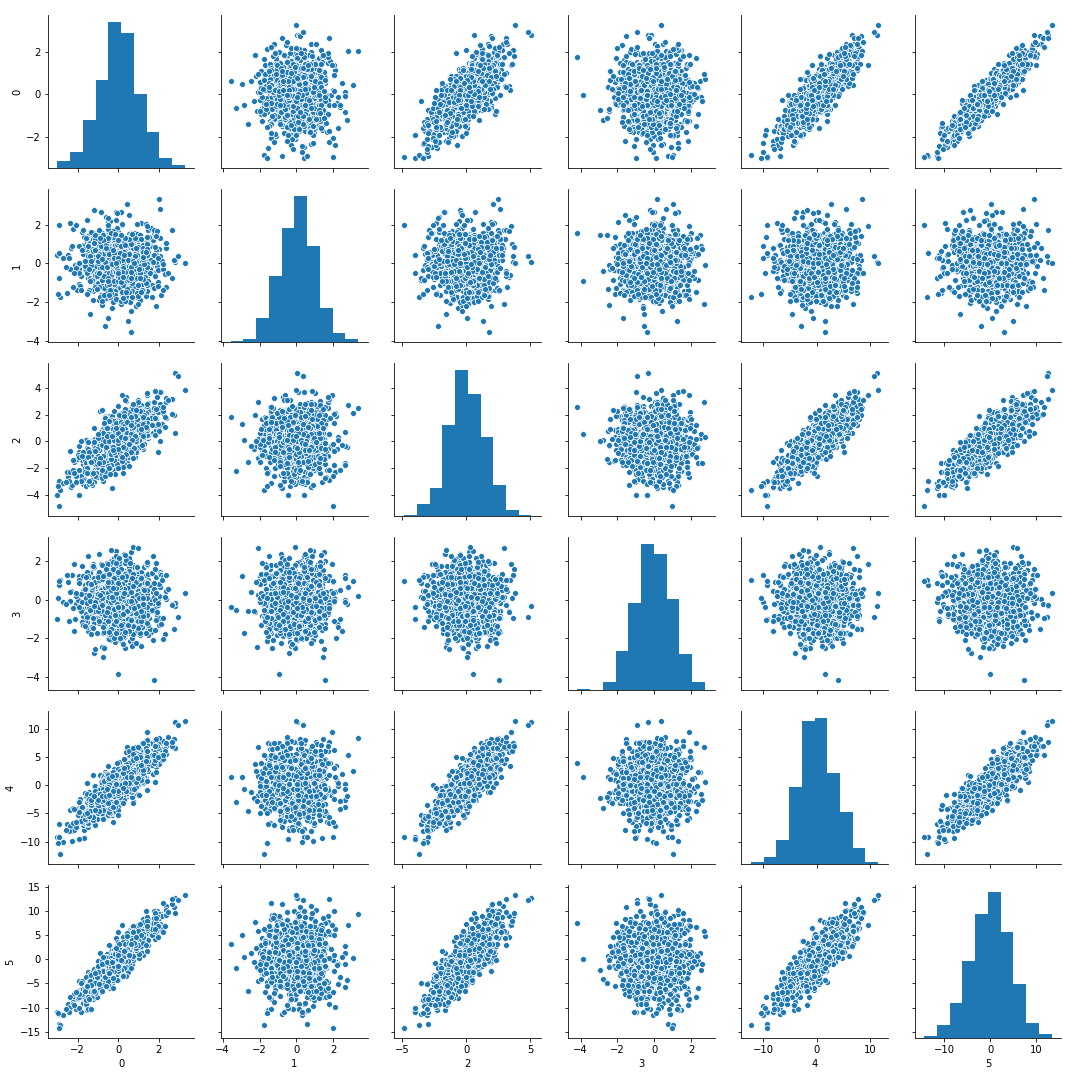
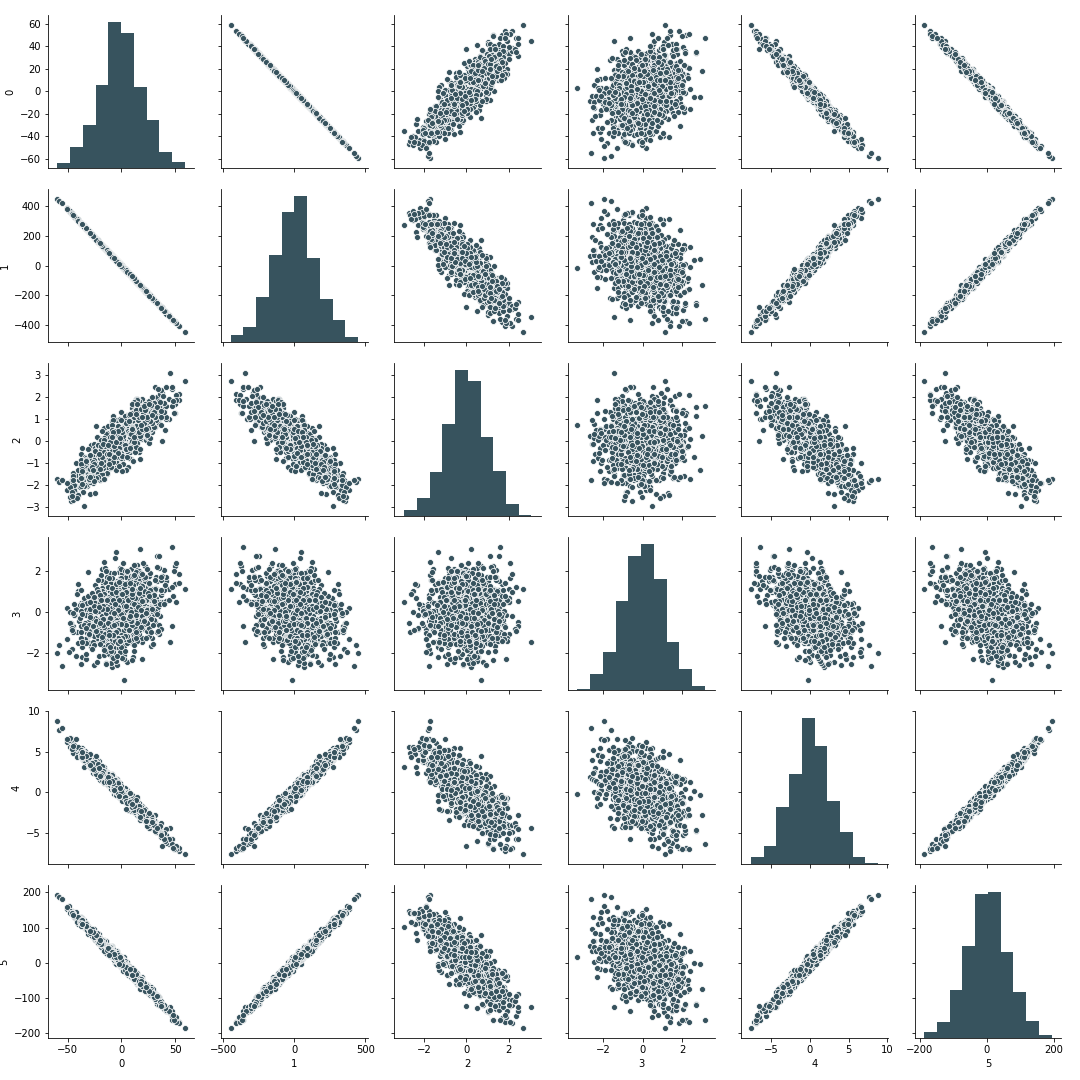
fixes to graph and begin invariantreg

diff --git a/data/causalgraph.py b/data/causalgraph.py
@@ -6,18 +6,24 @@ import numpy as np
 import networkx as nx
 import random
 
-class cgraph:
+class CausalGraph:
     """ Causal graph simulator
     """
     def __init__(self,
                 number_of_X,
                 density = 1,
                 edges = "random",
+                seed = None,
                 parameter_space = lambda:  np.random.randint(1,6),
                 noise_space = lambda nobs: np.random.normal(size = nobs),
-                weights = None):
+                weights = None
+                ):
 
+        self.seed = seed
         self.nvars = int(number_of_X)
+
+        if self.seed is not None:
+            np.random.seed(self.seed)
 
         self.parameter_space = parameter_space
         self.noise_space = noise_space
@@ -50,13 +56,21 @@ class cgraph:
     def random_edges(self):
         """ Randomly constructs causal edges between variables
         """
+        # TODO: probabily generating corr is not needed for
+        # anything. Remove here and above 
+
         e = list()
         c = list()
 
         while len(e) < self.ncon:
+
             corr = np.random.uniform(-1,1)
-            begin = random.choice(self.nodelist)
-            end = random.choice(self.nodelist)
+
+            bidx = np.random.choice(len(self.nodelist))
+            begin = self.nodelist[bidx]
+
+            eidx = np.random.choice(len(self.nodelist))
+            end = self.nodelist[eidx]
 
             if begin == 'Y' \
             or begin == end \
@@ -114,3 +128,16 @@ class cgraph:
                             done[par] = True
         self.X = X
         return self.X
+
+    def pintervene(self, effect, cause, parameter, unsafe = False):
+        if not isinstance(parameter,(float, int)):
+            raise ValueError("parameter must be a number.")
+
+        if not unsafe:
+            try:
+                self.parameters[effect][cause]
+            except:
+                raise KeyError("Creating new connections can jeopardize DAG structure")
+
+        self.parameters[effect][cause] = parameter
+        return self

diff --git a/data.py b/data.py
@@ -1,0 +1,41 @@
+
+import numpy as np
+import networkx as nx
+import random
+
+import matplotlib.pyplot as plt
+import pandas as pd
+import seaborn as sns
+
+from data.causalgraph import CausalGraph
+
+
+C = CausalGraph(5,
+                density =0.8,
+                seed = 1,
+                parameter_space = lambda: np.random.randint(-10,11)
+                )
+C.draw_graph()
+plt.savefig("figs/examplegraph.png")
+
+raw = C.yield_dataset(1000)
+
+df = pd.DataFrame(raw)
+with sns.color_palette("GnBu_d"):
+    sns.pairplot(df)
+    plt.savefig('figs/pairs.png')
+
+
+C.parameters
+
+C.pintervene(effect = 0, cause = 2, parameter = -5)
+
+df2 = pd.DataFrame(C.yield_dataset(nobs = 1000))
+
+df['Intervention'] = 'No'
+df2['Intervention'] = 'Yes'
+
+df3 = pd.concat([df, df2])
+
+sns.pairplot(df3, hue = 'Intervention', palette = 'GnBu_d')
+plt.savefig("figs/pairs2.png")

diff --git a/regressors/invariantregression.py b/regressors/invariantregression.py
@@ -1,0 +1,13 @@
+
+""" Estimate intervention-invariant models.
+"""
+
+
+class InvariantRegressionModel:
+
+    def __init__(self):
+        pass
+
+
+    def linearmodel():
+        pass

diff --git a/data/__init__.py b/data/__init__.py
@@ -1,0 +1,1 @@
+from .causalgraph import CausalGraph

diff --git a/README.md b/README.md
@@ -3,12 +3,15 @@ Simulating random causal graphs for experimenting with various regression techni
 
 ## Usage
 
-the cgraph class simulates random causal graphs (these are directed and acyclic, im not sure if this is completely required)
+the `CausalGraph` class simulates random causal graphs (these are directed and acyclic, although im not entirely sure if this is required). By default the generator is not seeded, but you can simply set a seed if you want to.
 ```python
-from data.causalgraph import cgraph
+from data.causalgraph import CausalGraph
 
-
-C = cgraph(4, density = 1)   # density is a very rough measure for the connectedness of the graph
+C = CausalGraph(5,
+                density =0.8,
+                seed = 1,
+                parameter_space = lambda: np.random.randint(-10,11)
+                )
 C.draw_graph()
 ```
 will yield a graph like
@@ -17,19 +20,17 @@ will yield a graph like
 <img src="figs/examplegraph.png">
 </p>
 
-Parameters governing the relation between the variables are stored in `C.parameters` as a dictionary with one key for each variable. Within each key is then a dictionary of `{ancestor:parameter}` pairs
+Which shows the simulated causal relation between each variable. Parameters governing the relation between the variables are stored in `C.parameters` as a dictionary with one key for each variable. Within each key is then a dictionary of `{ancestor:parameter}` pairs
 
 ```
-{
- 0: {},
- 1: {2: 5, 0: 1},
- 2: {0: 1},
- 3: {1: 2},
- 'Y': {2: 2, 1: 4}
-}
+{0: {4: -6, 2: 5},
+ 1: {0: -8, 4: -3},
+ 2: {},
+ 3: {},
+ 4: {2: -2, 3: -1},
+ 'Y': {3: -7, 0: -3}}
 ```
-We can simulate a row-column dataset with
-
+The parameters are drawn randomly (in this case as integers between -10 and 10). We can simulate a row-column dataset with
 ```python
 C.yield_dataset(nobs = 1000)
 ```
@@ -37,4 +38,14 @@ which will give a numpy array with data which looks like:
 
 <p align="center">
 <img src="figs/pairs.png">
+</p>
+
+Next we can intervene on one of the parameters in the network using `pintervene`
+```python
+C.pintervene(effect = 0, cause = 2, parameter = -5)
+```
+This code changes the parameter in the equation X0 = 5*X2 to a 2 (i.e. X0 = -5*X2). When overlaying the new and old dataset we get a figure like
+
+<p align="center">
+<img src="figs/pairs2.png">
 </p>
